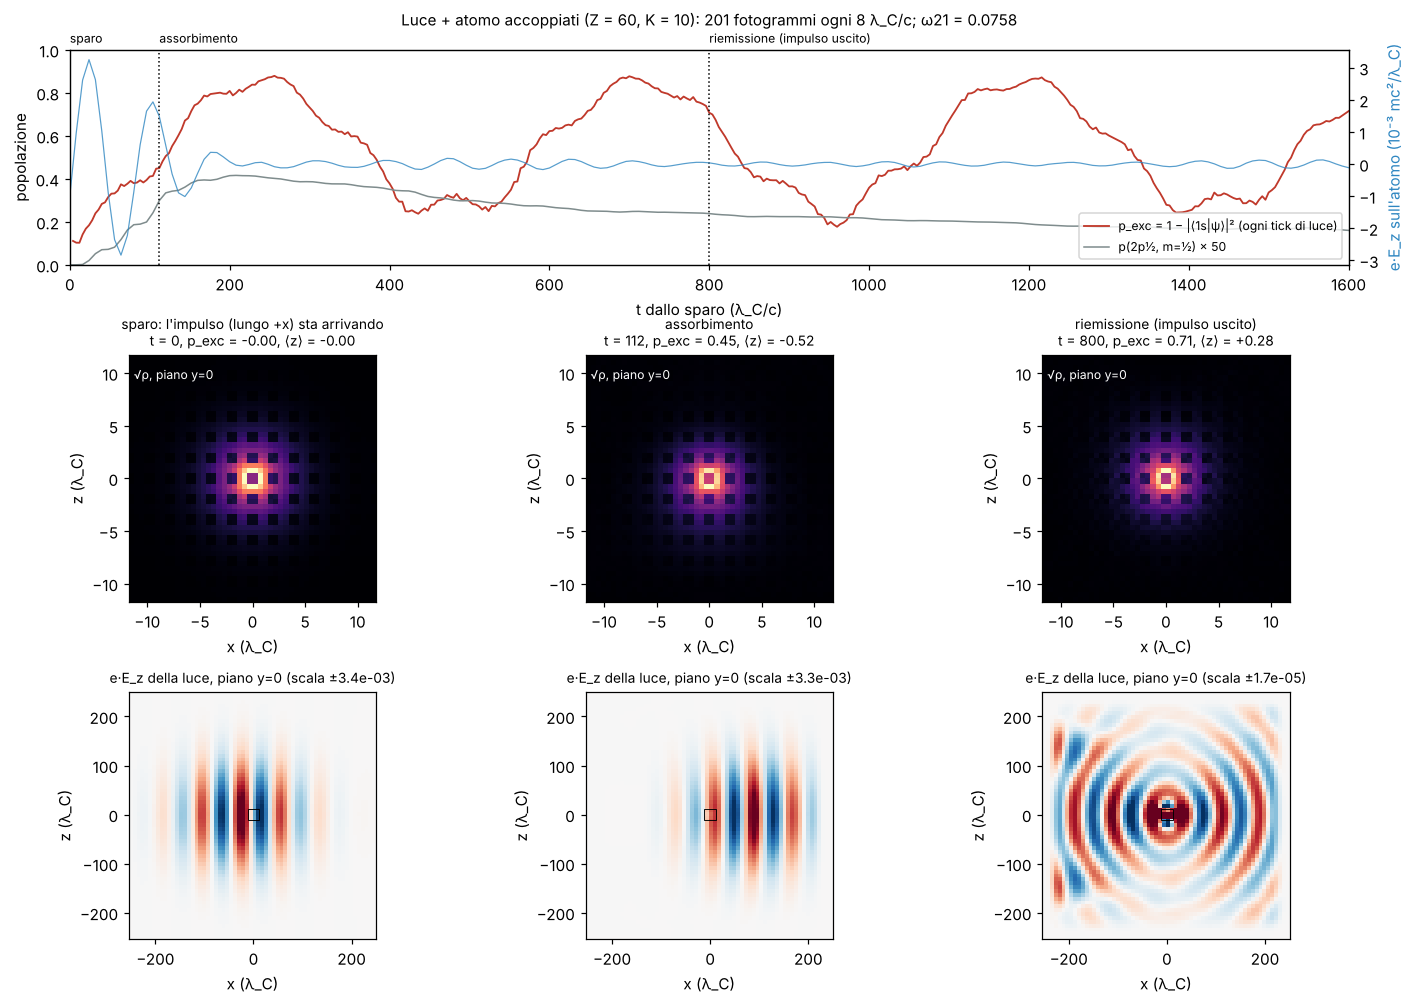
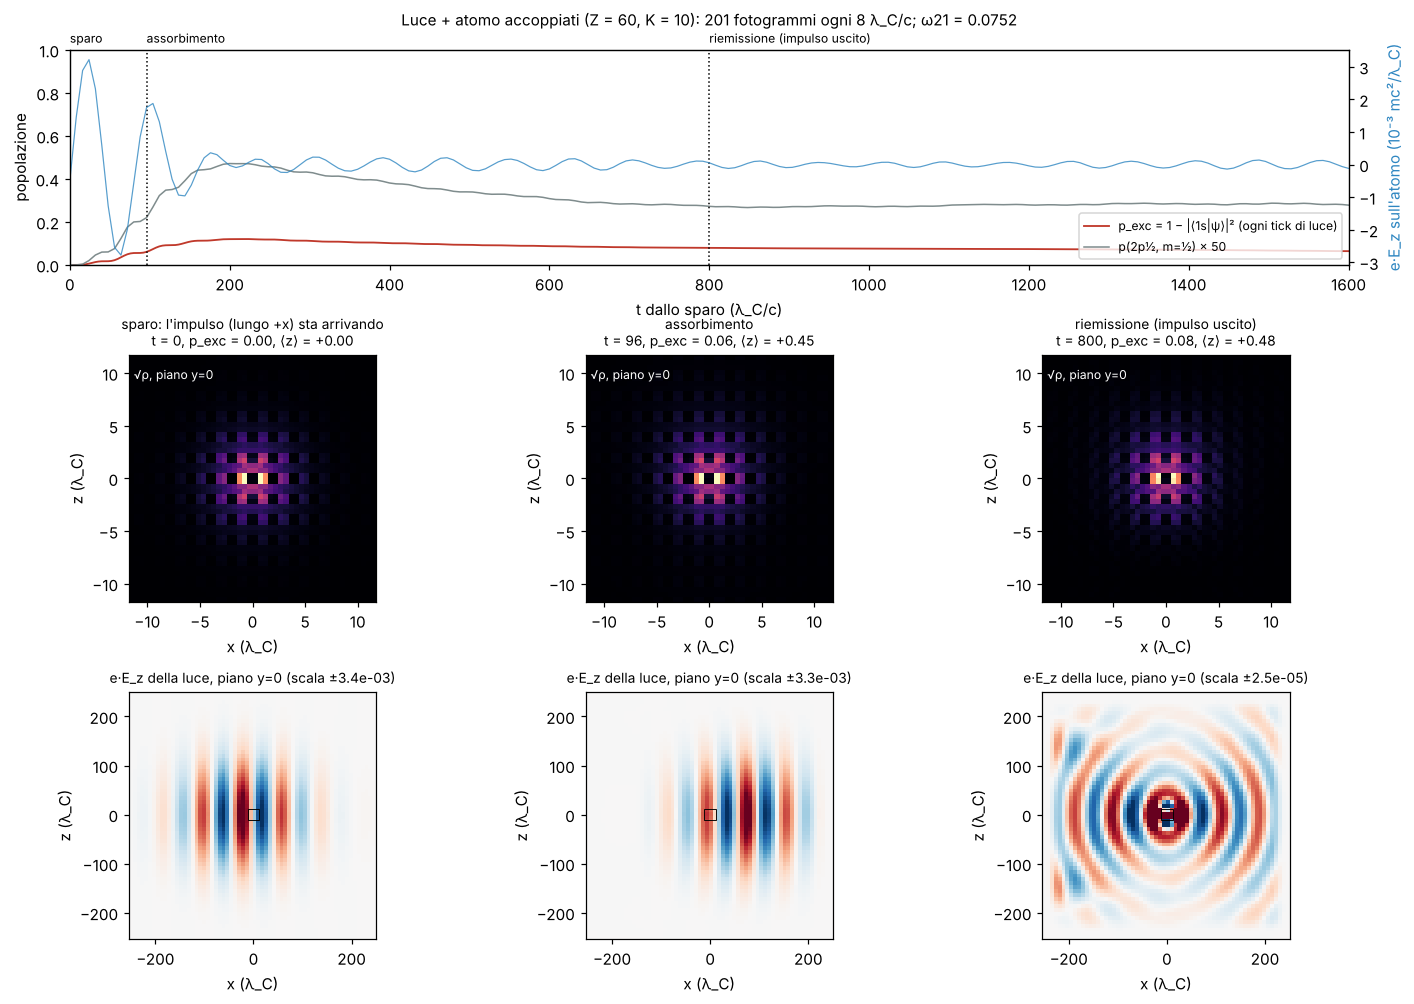
battimento 1s: scena senza accoppiamento riparte dall'1s esatto (controllo B1: p_exc max 0), esportazione rigenerata con l'1s esatto (manifest stato_1s, omega21 0.07519), controllo.png nuovo, note in ATOMO e BATTIMENTO

diff --git a/src/atomo/tests.rs b/src/atomo/tests.rs
@@ -530,6 +530,7 @@ fn accoppiato_esporta() {
   "tick_atomo": {a}, "tick_luce": {bl}, "tick_atomo_per_tick_luce": {sub},
   "tick_per_fotogramma": {ogni}, "dt_fotogramma": {dtf}, "fotogrammi": {fotogrammi}, "tick_totali": {ticks},
   "t_sparo": {t_sparo}, "omega_21": {w21}, "omega_1s": {o1}, "omega_2p": {o2}, "periodo_luce": {per},
+  "stato_1s": "1s ESATTO della regola 3-D (Atomo::uno_s_esatto, diagonalizzazione del filtro, docs/BATTIMENTO_1S.md): un livello del multipletto 1s del reticolo cubico (4 valli mescolate dal nucleo), fermo senza luce a 1e-16. Rigenerato il 14/10/2026; i dati del 13/10 usavano l'1s ascoltato (miscuglio di 3 livelli: p_exc batteva 0.2-0.88 con periodo 476 anche senza luce)",
   "e_eff": {ee}, "K_ACC": {k}, "E0_ACC": {e0}, "alpha": {al}, "Z": {z},
   "griglia_atomo": {{"n": {n}, "passo": {a}, "coordinate": "x_i = (i - {n}/2 + 0.5) * {a} lambda_C, i = 0..{n}-1 (stesse per y, z); centro = nucleo = origine"}},
   "griglia_luce_originale": {{"n": {nl}, "passo": {bl}, "coordinate": "x_i = (i - {nl}/2) * {bl} lambda_C; la cella {h} e' l'origine (nucleo); spugna assorbente {sp} celle ai bordi"}},
@@ -550,7 +551,8 @@ fn accoppiato_esporta() {
     "semi-classico: la luce e' un campo classico (camminatori di spin 1), l'atomo quantistico; niente fotone quantizzato",
     "emissione solo da sovrapposizione (1s + 2p, dipolo oscillante): uno stato eccitato puro non decadrebbe (manca l'emissione spontanea vera)",
     "forma di dipolo e E mediato su una gaussiana sigma = 2 celle di luce intorno all'atomo (riduce la potenza irradiata di W^2)",
-    "ione Z = 60 invece dell'idrogeno (la cella deve essere << raggio di Bohr)"
+    "ione Z = 60 invece dell'idrogeno (la cella deve essere << raggio di Bohr)",
+    "l'1s del reticolo cubico e' un multipletto di 4 livelli (0.8404, 0.8863, 0.8993, 0.8996): lo stato usato (0.89960) e' un ibrido delle 4 valli del cammino, con una trama di densita' di periodo 4 celle (2 lambda_C): smussare su ~2 lambda_C per le palline, dichiarandolo"
   ],
   "comando": "ESPORTA_DIR=<dir> TICKS={ticks} OGNI={ogni} cargo test --bin atomo accoppiato_esporta -- --ignored --nocapture"
 }}

diff --git a/src/atomo/zzscena.rs b/src/atomo/zzscena.rs
@@ -265,6 +265,9 @@ pub fn avvia() -> Arc<Mutex<Condiviso>> {
         let (tx, rx) = std::sync::mpsc::channel();
         std::thread::spawn(move || { let _ = tx.send(Esperimento::new(600)); });
         let mut riserva: Option<Esperimento> = None;
+        // the clean 1s (an exact level of the 3-D rule, docs/BATTIMENTO_1S.md), taken from the coupled experiment when
+        // it is ready: the atom without coupling restarts from it too (the radial start beats with period ~476)
+        let mut uno_s: Option<Vec<[crate::cplx::C; 4]>> = None;
         let mut p2p = 0.0;
         let mut opz_prima = Opzioni::default();
         loop {
@@ -278,14 +281,23 @@ pub fn avvia() -> Arc<Mutex<Condiviso>> {
                 s
             };
             if fine { break; }
-            if let Ok(e) = rx.try_recv() { riserva = Some(e); }
             let mut cambio = false;
+            if let Ok(e) = rx.try_recv() {
+                uno_s = Some(e.phi1s.clone());
+                if m.esp.is_none() { m.at.imposta(e.phi1s.clone()); cambio = true; }
+                riserva = Some(e);
+            }
             if accoppiato && m.esp.is_none() && riserva.is_some() { m.esp = riserva.take(); cambio = true; }
             if !accoppiato && m.esp.is_some() { riserva = m.esp.take(); cambio = true; }
             if ric {
                 match m.esp.as_mut() {
                     Some(e) => e.ricomincia(),
-                    None => { let esp = m.esp.take(); m = nuovo_mondo(); m.esp = esp; }
+                    None => {
+                        let esp = m.esp.take();
+                        m = nuovo_mondo();
+                        if let Some(v) = &uno_s { m.at.imposta(v.clone()); }
+                        m.esp = esp;
+                    }
                 }
                 cambio = true;
             }

diff --git a/src/atomo/test_battimento.rs b/src/atomo/test_battimento.rs
@@ -384,3 +384,21 @@ fn battimento_esame() {
     csv("esame_d.csv", "t,z", &rows);
     eprintln!("done ({:?})", t0.elapsed());
 }
+
+/// B1-type check for the scene WITHOUT coupling (zzscena): the atom `Atomo::new()` restarted from the clean 1s of
+/// `Esperimento::new(600)` (as the scene does when the experiment is ready), no light, 3200 ticks: max p_exc on the
+/// ticks the scene shows it (every 4) < 1e-3 (threshold of B1, lab/out/battimento_prereg.json).
+#[test]
+#[ignore]
+fn battimento_scena_libera() {
+    let x = crate::accoppiato::Esperimento::new(600);
+    let mut at = Atomo::new();
+    at.imposta(x.phi1s.clone());
+    let mut pmax: f64 = 0.0;
+    for _ in 0..3200 {
+        if at.ticks % 4 == 0 { pmax = pmax.max(1.0 - at.p_fondamentale()); }
+        at.avanti();
+    }
+    eprintln!("scene without coupling, clean 1s ω {:.5}: max p_exc {pmax:.2e} over 3200 ticks", x.omega1s);
+    assert!(pmax < 1e-3);
+}

diff --git a/docs/ATOMO.md b/docs/ATOMO.md
@@ -288,13 +288,16 @@ rigenerano in ~2 minuti:
 Lettore e figura di controllo: `python3 lab/atomo_export_leggi.py <dir> --figura [--npz]` →
 `lab/out/atomo_export_controllo.png`.
 
-Che cosa si vede (corsa del 13 ottobre 2026): il campo dell'impulso sta sull'atomo per t ≈ 0–150 λ_C/c, p_exc sale
+Che cosa si vedeva (corsa del 13 ottobre 2026, vecchio 1s): il campo dell'impulso sta sull'atomo per t ≈ 0–150 λ_C/c, p_exc sale
 da 0 a **0,88 a t ≈ 256**, poi oscilla tra ~0,2 e ~0,88 con periodo ~470 λ_C/c. Attenzione: **non è uno scambio di energia con la luce**.
 **Risolto (`docs/BATTIMENTO_1S.md`)**: lo stesso "1s" senza nessuna luce fa la stessa curva (massimo 0,889;
 differenza con la corsa accoppiata ≤ 0,080). È il battimento fra i livelli esatti 0,8994 e 0,8862 del multipletto
 1s del reticolo cubico (0,0132 → periodo 476); l'eccitazione vera era solo ~5 % (2p3/2). Con l'1s esatto (ora il
-default di `Esperimento::new`) p_exc dopo l'impulso sta fra 0,097 e 0,064 e scende piano (luce rimandata). **I dati
-esportati il 13 ottobre sono del vecchio 1s: vanno rigenerati.** Dopo t ≈ 450 l'impulso è uscito dalla scatola (energia nella
+default di `Esperimento::new`) p_exc dopo l'impulso sta fra 0,097 e 0,064 e scende piano (luce rimandata). **Rigenerati il 14 ottobre**
+con l'1s esatto (ω₁ₛ = 0,89960, ω₂₁ = 0,07519; `manifest.json` lo dice in `stato_1s`): ora p_exc sale a
+**0,120 a t = 220** e poi scende piano (0,097 a t = 450, 0,079 a 800, 0,064 a 1590): l'atomo si svuota mandando
+luce, niente più battimento. Il prezzo: la densità dell'1s esatto ha la trama a scacchiera di periodo 4 celle
+(le 4 valli, BATTIMENTO_1S §2.4) ben visibile in `controllo.png`: per le palline va smussata su ~2 λ_C, dichiarandolo. Dopo t ≈ 450 l'impulso è uscito dalla scatola (energia nella
 scatola < 10⁻³ di quella iniziale) e resta solo la luce del dipolo dell'atomo: anelli a sin²θ intorno a z, ampiezza
 ~10⁻⁵ mc²/λ_C. Due avvertenze per chi disegna: (1) p(2p½, m = ½) resta < 0,01: l'eccitazione va quasi tutta nel
 2p3/2 (vedi la diagnosi di E1v2 sopra), quindi "p_exc" è la popolazione da usare; (2) ρ di una singola fetta di

diff --git a/docs/BATTIMENTO_1S.md b/docs/BATTIMENTO_1S.md
@@ -165,11 +165,11 @@ quelli dell'esame).
    altrettanto fermo.
 4. **2p**: ascoltato come prima (finestra corta); anche lì è probabile un multipletto di valli (righe del dipolo
    0,0810 / 0,0698 / 0,1108): non toccato qui, vedi `docs/EMISSIONE.md`.
-5. **La scena atomo senza accoppiamento** (`Atomo::new()`, stato radiale) batte ancora: non toccata (file della
-   scena di un altro thread). Basta `imposta(uno_s_esatto(...).0.v)`.
-6. **Esportazione**: i dati in `/mnt/project-files/ripresa/dati/atomo_accoppiato/` sono del vecchio 1s (con il
-   battimento). Si rigenerano con lo stesso comando (§3.6 di ATOMO.md); la preparazione costa ~2 volte di più
-   (~60 s su 2 thread).
+5. **La scena atomo senza accoppiamento**: chiuso il 14/10. `zzscena` riparte dall'1s esatto appena
+   l'esperimento accoppiato è pronto (prima, per ~60 s, mostra ancora lo stato radiale che batte). Controllo come B1
+   (test `battimento_scena_libera`, stessa soglia 10⁻³): max p_exc **0** su 3 200 tick.
+6. **Esportazione**: rigenerata il 14/10 con l'1s esatto (`manifest.json` → `stato_1s`); p_exc picco **0,120 a
+   t = 220**, poi 0,097 (t = 450) → 0,064 (t = 1590). La preparazione costa ~2 volte di più (~60 s su 2 thread).
 7. Costo di memoria della preparazione: 25 onde da 7 MB (~175 MB).
 
 **Parametri.** Fisici nuovi: 0. Impostazioni: 5 (sopra). Esami: 4 PASS (B1 debole), 0 FAIL.
